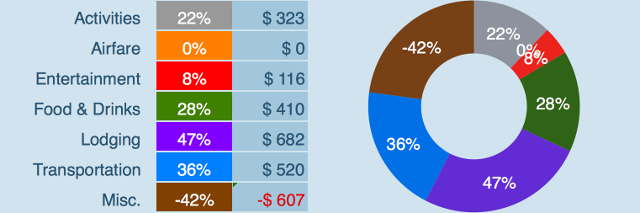
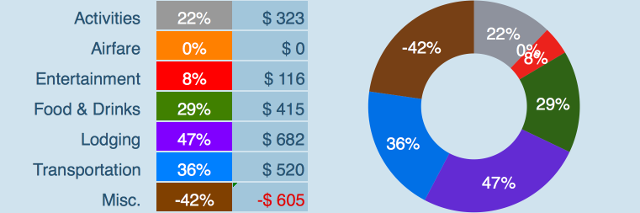
Added food draft, IPC post, updated location.

diff --git a/app/blog/20150205-the-next-extreme.md b/app/blog/20150205-the-next-extreme.md
@@ -1,0 +1,41 @@
+---
+pages      : all
+slug       : the-next-extreme
+title      : The Next Extreme
+date       : !!str 2015-02-05T23:15:00-03:00
+categories : [ ]
+tags       : [ ]
+geography  :
+  - id        : 8261182
+    name      : Punta Arenas
+    coord     : [ -72.03848, -53.64148 ]
+    continent : { code: SA, name: &continent8261182 South America }
+    country   : { code: CL, name: &country8261182 Chile }
+    transport : flight
+  - id        : 3871336
+    name      : Santiago
+    coord     : [ -70.64827, -33.45694 ]
+    continent : { code: SA, name: &continent3871336 South America }
+    country   : { code: CL, name: &country3871336 Chile }
+    transport : flight
+  - id        : 4030726
+    name      : Easter Island
+    coord     : [ -109.36667, -27.11667 ]
+    continent : { code: SA, name: &continent4030726 South America }
+    country   : { code: CL, name: &country4030726 Chile }
+    transport : flight
+continents:
+  - *continent8261182
+countries:
+  - *country8261182
+archives:
+  - !!str ''
+  - !!str 2015
+  - !!str 2015-02
+---
+
+As our twelve day stay in Patagonia comes to an end, the next adventurous destination is already waiting for us. We will be flying from Punta Arenas to the capital of Santiago, stay overnight in the airport, and depart in the early morning to Easter Island!
+
+Located five hours away from any land, Easter Island is a very special destination, known for the Moai statues all over the island. We will be camping here for a week, before heading back to Santiago on the 13th.
+
+Our last day in Patagonia we spent grocery shopping: because of the remoteness of Easter Island grocery prices are four times as high as on the mainland, a great reason to bring everything with. So, we decided to empty one of our backpacks, and stuff it with groceries instead. That, plus a cooler full of beer will sure make for an awesome time.

diff --git a/app/blog/20150203-monthly-recap-january-2015.md b/app/blog/20150203-monthly-recap-january-2015.md
@@ -77,7 +77,7 @@ A detailed list of expenses per country is listed below. The amounts per person 
 ## Brazil
 * Days: **14**,
 * Budget: **$1,960** ($70 pppd),
-* Expenses: **$1,316** ($47 pppd),
+* Expenses: **$1,322** ($47 pppd),
 * Additional visa costs: **$160** (Herta).
 
 <span class="img-thumbnail">![Expenses Breakdown](/images/budget-brazil.png)</span>
@@ -89,7 +89,7 @@ A detailed list of expenses per country is listed below. The amounts per person 
 
 * Days: **12**,
 * Budget: **$1,440** ($60 pppd),
-* Expenses: **$1,442** ($60 pppd),
+* Expenses: **$1,450** ($60.50 pppd),
 * Additional visa costs: **$160** (Herta).
 
 <span class="img-thumbnail">![Expenses Breakdown](/images/budget-argentina.png)</span>

diff --git a/app/blog/20150219-in-search-of-great-steak-and-wine.md b/app/blog/20150219-in-search-of-great-steak-and-wine.md
@@ -1,0 +1,26 @@
+---
+pages      : all
+draft      : true
+slug       : in-search-of-great-steak-and-wine
+title      : In Search of Great Steak & Wine
+date       : !!str 2015-02-19T19:00:00-05:00
+categories : [ Food ]
+tags       : [ ]
+geography  :
+  - id        : 3865483
+    name      : Argentine Republic
+    coord     : [ -64, -34 ]
+    continent : { code: SA, name: &continent3865483 South America }
+    country   : { code: AR, name: &country3865483 Argentina }
+    transport : flight
+continents:
+  - *continent3865483
+countries:
+  - *country3865483
+archives:
+  - !!str ''
+  - !!str 2015
+  - !!str 2015-02
+---
+
+Lorem ipsum dolor sit amet.
